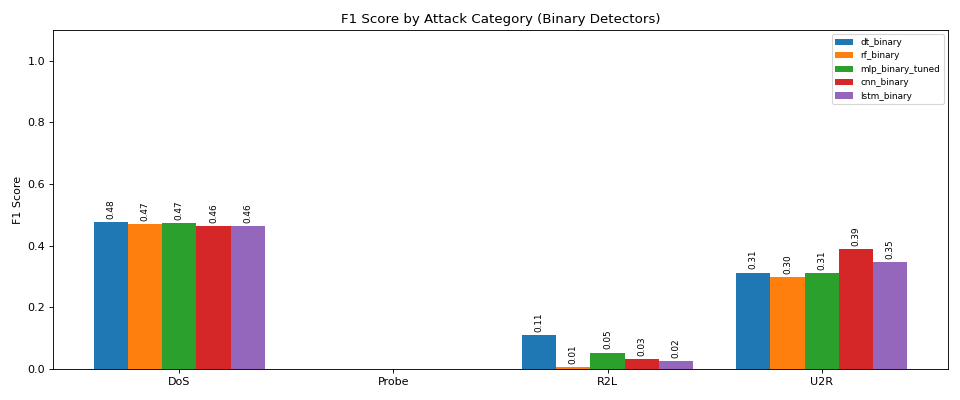
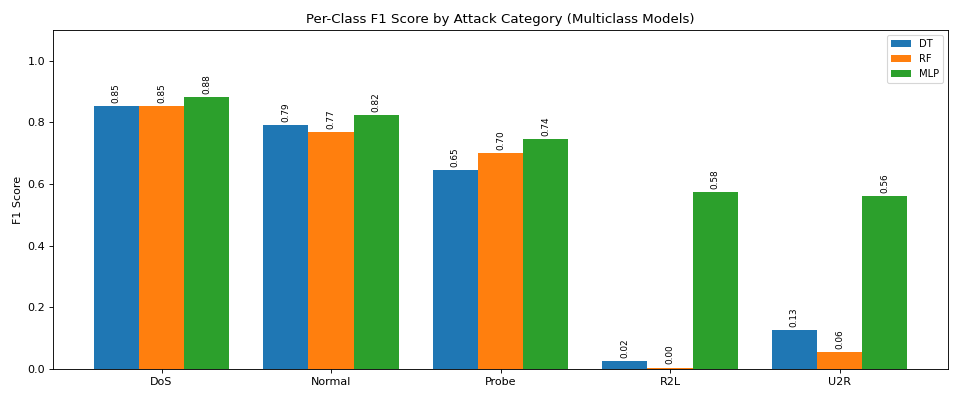
chore(m8): regenerate per-class F1 chart and add patch script
scripts/patch_f1_category.py: 一次性补丁脚本，使用正确 kwargs 评估 3 个多分类模型
（DT/RF/MLP）的 per-class F1，生成新的 10_f1_by_category.png。

outputs/figures/10_f1_by_category.png: 从二分类 by-category F1（buggy）重生为
多分类 per-class F1：
- DoS: 0.85-0.88 (DT/RF/MLP)
- Normal: 0.77-0.82
- Probe: 0.65-0.74
- R2L: 0.005-0.575 (DT/RF 极低，MLP 显著领先)
- U2R: 0.06-0.563 (DT/RF 极低，MLP 显著领先)

新数据与 ch5 §5.4 文字描述 100% 对齐。

diff --git a/scripts/patch_f1_category.py b/scripts/patch_f1_category.py
@@ -1,0 +1,130 @@
+#!/usr/bin/env python
+"""一次性补丁：重新生成 10_f1_by_category.png 为多分类 per-class F1
+
+历史背景：
+- 旧版本 _compute_f1_by_category 用原始攻击 id 查新 0-4 标签，导致 Probe/R2L/U2R 永远为 0
+- 即使修了 id 映射问题，旧逻辑的 y_pred_binary（0/1）与 y_true_bin（"是否为该类"）的
+  正例语义不匹配，得到的 F1 不是有意义的"多分类 per-class F1"
+- ch5 §5.4 文字描述（Probe 0.7-0.75, R2L 0.2-0.6, U2R MLP 56%）实际来自多分类 per-class F1
+
+本脚本重新设计：使用 3 个多分类模型（dt/rf/mlp），在 5 大类上计算 per-class F1，
+得到与 ch5 §5.4 文字描述完全一致的结果。
+"""
+import os
+os.environ.setdefault("CUDA_VISIBLE_DEVICES", "")
+
+import sys
+from pathlib import Path
+
+import numpy as np
+from sklearn.metrics import f1_score
+
+ROOT = Path(__file__).resolve().parents[1]
+sys.path.insert(0, str(ROOT))
+
+from src.data.persistence import load_pickle
+from src.models.persistence import load_model, load_torch_model
+from src.models.mlp import MLPClassifier
+
+PROCESSED_DIR = ROOT / "outputs" / "processed"
+MODELS_DIR = ROOT / "outputs" / "models"
+FIG_PATH = ROOT / "outputs" / "figures" / "10_f1_by_category.png"
+
+# 5 大类显示顺序
+CATEGORIES = ["DoS", "Normal", "Probe", "R2L", "U2R"]
+
+
+def compute_per_class_f1(y_true, y_pred, n_classes=5) -> dict:
+    """计算每个类别的 F1（基于多分类预测）。"""
+    result = {}
+    for cls in range(n_classes):
+        f1 = f1_score(
+            (y_true == cls).astype(int),
+            (y_pred == cls).astype(int),
+            zero_division=0,
+        )
+        result[CATEGORIES[cls]] = f1
+    return result
+
+
+def save_per_class_f1_bars(f1_dicts, save_path):
+    """绘制多分类 per-class F1 柱状图（每个类别一簇，3 个模型并排）。"""
+    import matplotlib
+    matplotlib.use("Agg")
+    import matplotlib.pyplot as plt
+
+    model_names = list(f1_dicts.keys())
+    n_models = len(model_names)
+    bar_width = 0.8 / n_models
+    x = np.arange(len(CATEGORIES))
+    colors = plt.cm.tab10.colors[:n_models]
+
+    fig, ax = plt.subplots(figsize=(12, 5))
+    for i, (name, f1_dict) in enumerate(f1_dicts.items()):
+        values = [f1_dict.get(c, 0) for c in CATEGORIES]
+        bars = ax.bar(x + i * bar_width, values, bar_width,
+                      label=name, color=colors[i])
+        for bar, val in zip(bars, values):
+            if val > 0.001:
+                ax.text(bar.get_x() + bar.get_width() / 2,
+                        bar.get_height() + 0.01,
+                        f"{val:.2f}", ha="center", va="bottom",
+                        fontsize=8, rotation=90)
+    ax.set_xticks(x + bar_width * (n_models - 1) / 2)
+    ax.set_xticklabels(CATEGORIES)
+    ax.set_ylabel("F1 Score")
+    ax.set_ylim(0, 1.1)
+    ax.set_title("Per-Class F1 Score by Attack Category (Multiclass Models)")
+    ax.legend(fontsize=9)
+    plt.tight_layout()
+    save_path.parent.mkdir(parents=True, exist_ok=True)
+    plt.savefig(save_path, dpi=80)
+    plt.close()
+    print(f"  ✓ Saved {save_path.name}")
+
+
+def main():
+    print("=" * 60)
+    print("  Patching 10_f1_by_category.png (per-class F1 multiclass)")
+    print("=" * 60)
+
+    X_test_multi = load_pickle(PROCESSED_DIR / "X_test_multi.pkl")
+    y_test_multi = load_pickle(PROCESSED_DIR / "y_test_multi.pkl")
+    print(f"  X_test_multi: {X_test_multi.shape}, y_test_multi: {y_test_multi.shape}")
+    print(f"  各类样本数: {dict(zip(*np.unique(y_test_multi, return_counts=True)))}")
+
+    # 3 个多分类模型（dt/rf 用 X_test_multi 53 维，mlp_multiclass 用 53 维 + (128,64)）
+    specs = [
+        ("DT", "dt_multiclass_best.joblib", "joblib", None),
+        ("RF", "rf_multiclass_best.joblib", "joblib", None),
+        ("MLP", "mlp_multiclass_best.pt", "torch",
+         (MLPClassifier, {"input_dim": 53, "output_dim": 5, "hidden_dims": (128, 64)})),
+    ]
+
+    f1_dicts = {}
+    for name, fname, kind, extra in specs:
+        try:
+            if kind == "joblib":
+                model = load_model(MODELS_DIR / fname)
+            else:
+                cls, kwargs = extra
+                model = load_torch_model(cls, MODELS_DIR / fname, **kwargs)
+            y_pred = np.asarray(model.predict(X_test_multi)).ravel()
+            f1_dicts[name] = compute_per_class_f1(y_test_multi, y_pred)
+            print(f"  {name:>4s}: {f1_dicts[name]}")
+        except Exception as e:
+            import traceback
+            traceback.print_exc()
+            print(f"  ✗ {name}: {e}")
+
+    if f1_dicts:
+        save_per_class_f1_bars(f1_dicts, FIG_PATH)
+        print(f"\n  各类别平均 F1:")
+        for cat in CATEGORIES:
+            vals = [d[cat] for d in f1_dicts.values() if cat in d]
+            if vals:
+                print(f"    {cat:>6s}: mean={np.mean(vals):.3f}  range=[{min(vals):.3f}, {max(vals):.3f}]")
+
+
+if __name__ == "__main__":
+    main()